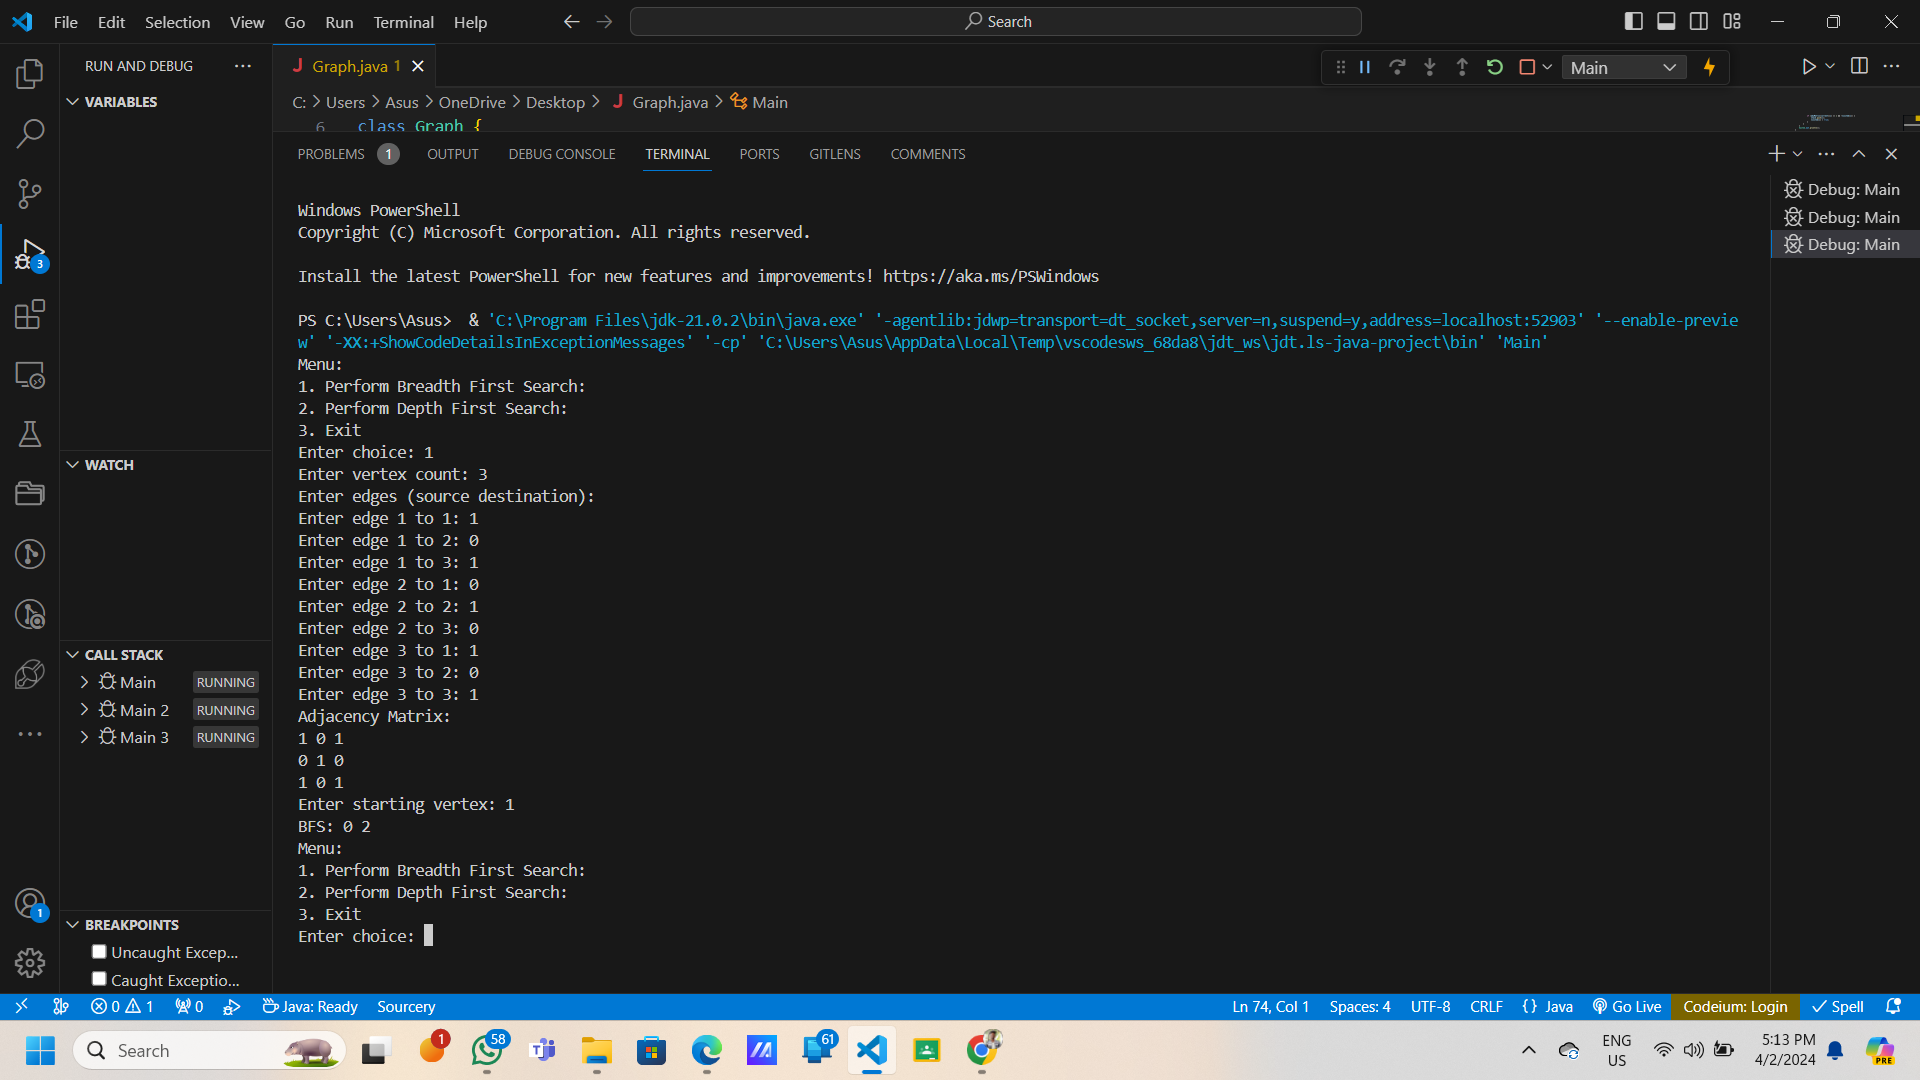
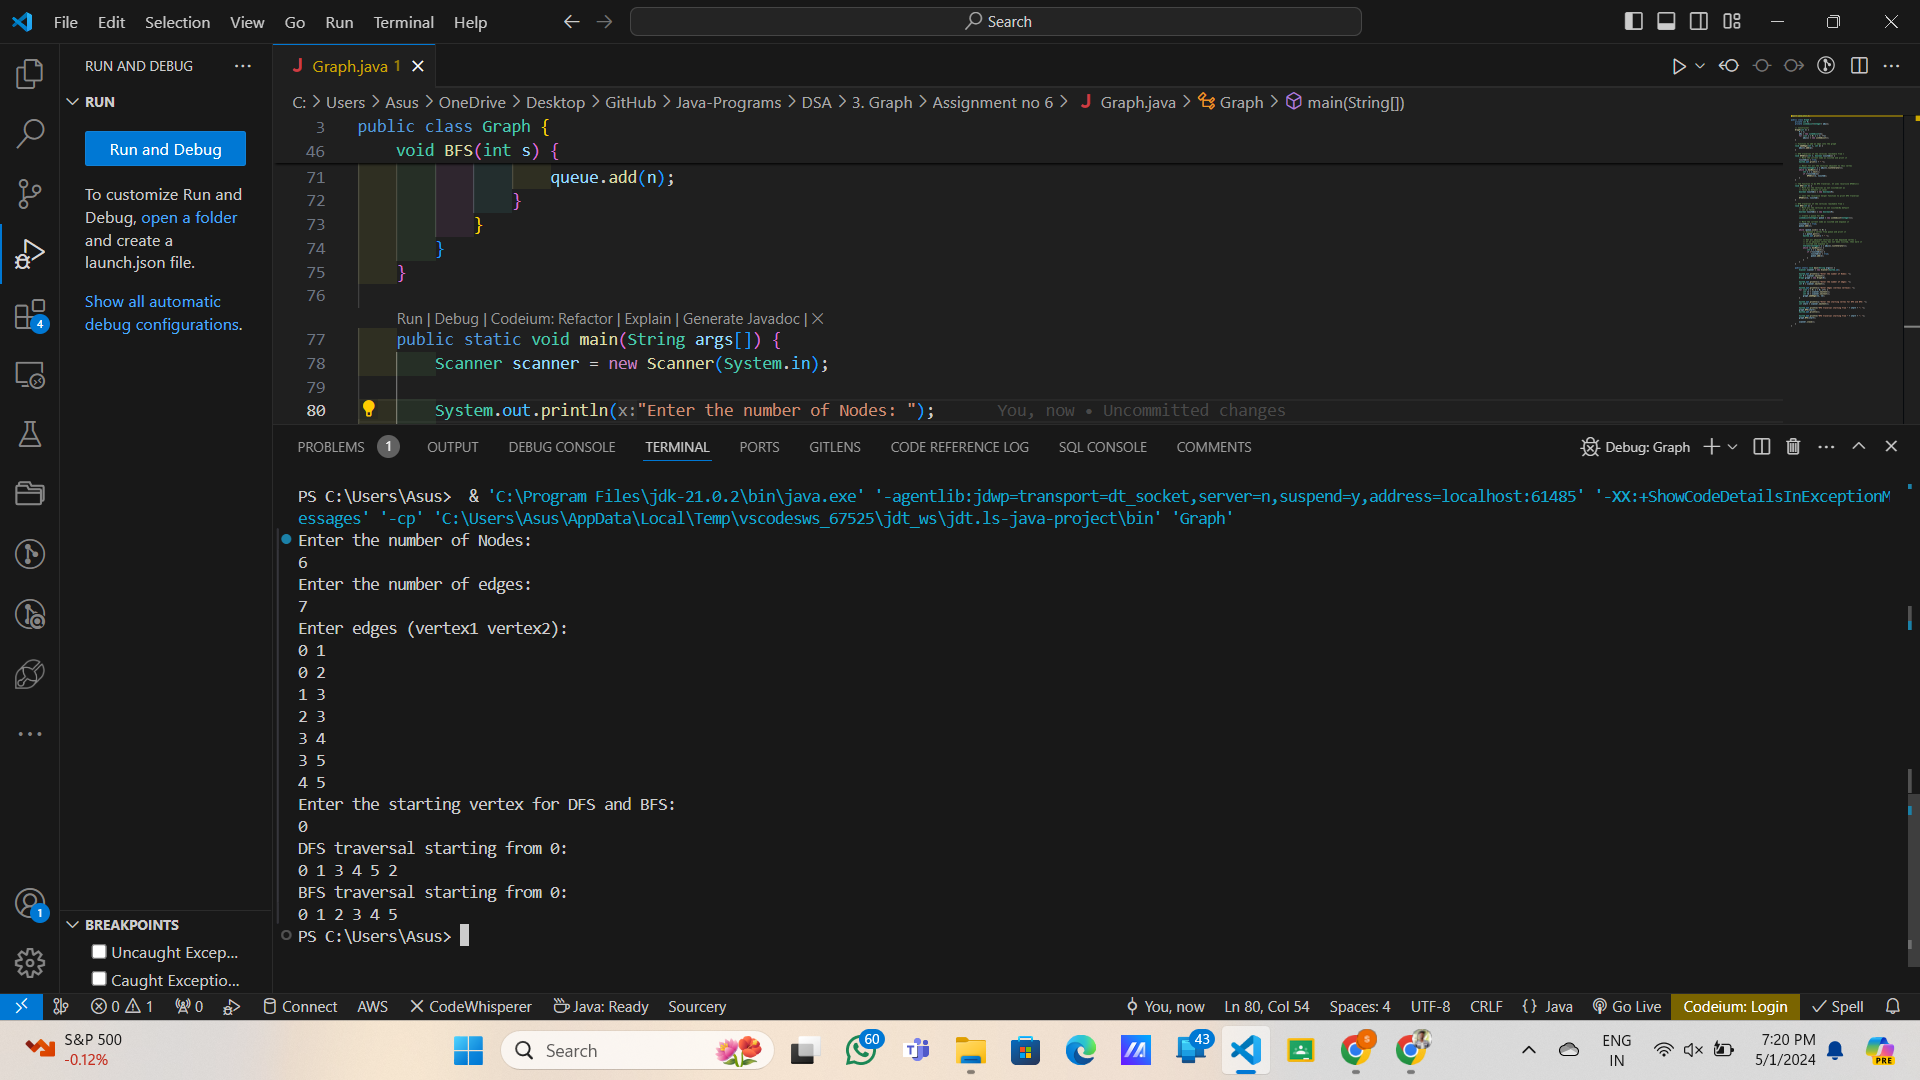
UPDATED

diff --git a/DSA/3. Graph/Assignment no 6/Graph.java b/DSA/3. Graph/Assignment no 6/Graph.java
@@ -1,122 +1,106 @@
-import java.util.Scanner;
-import java.util.LinkedList;
-import java.util.Queue;
-import java.util.Stack;
+import java.util.*;
 
-class Graph {
-    int[][] adjMatrix;
-    int vCount;
-    boolean[] visited;
+public class Graph {
+    private int V;
+    private LinkedList<Integer> adj[];
 
-    Graph(int vCount) {
-        this.vCount = vCount;
-        adjMatrix = new int[vCount][vCount];
-        visited = new boolean[vCount];
+    // Constructor
+    Graph(int v) {
+        V = v;
+        adj = new LinkedList[v];
+        for (int i = 0; i < v; ++i)
+            adj[i] = new LinkedList();
     }
 
-    void readEdges(Scanner scanner) {
-        System.out.println("Enter edges (source destination): ");
-        for (int i = 0; i < vCount; i++) {
-            for (int j = 0; j < vCount; j++) {
-                System.out.print("Enter edge " + (i + 1) + " to " + (j + 1) + ": ");
-                adjMatrix[i][j] = scanner.nextInt();
-            }
+    // Function to add an edge into the graph
+    void addEdge(int v, int w) {
+        adj[v].add(w);
+    }
+
+    // DFS traversal of the vertices reachable from v
+    void DFSUtil(int v, boolean visited[]) {
+        // Mark the current node as visited and print it
+        visited[v] = true;
+        System.out.print(v + " ");
+
+        // Recur for all the vertices adjacent to this vertex
+        Iterator<Integer> i = adj[v].listIterator();
+        while (i.hasNext()) {
+            int n = i.next();
+            if (!visited[n])
+                DFSUtil(n, visited);
         }
     }
 
-    void displayAdjacency() {
-        System.out.println("Adjacency Matrix:");
-        for (int i = 0; i < vCount; i++) {
-            for (int j = 0; j < vCount; j++) {
-                System.out.print(adjMatrix[i][j] + " ");
-            }
-            System.out.println();
-        }
+    // The function to do DFS traversal. It uses recursive DFSUtil()
+    void DFS(int v) {
+        // Mark all the vertices as not visited(set as
+        // false by default in java)
+        boolean visited[] = new boolean[V];
+
+        // Call the recursive helper function to print DFS traversal
+        DFSUtil(v, visited);
     }
 
-    void BFS(int start) {
-        Queue<Integer> queue = new LinkedList<>();
-        queue.offer(start);
-        visited[start] = true;
-        System.out.print("BFS: ");
-        while (!queue.isEmpty()) {
-            int current = queue.poll();
-            System.out.print(current + " ");
-            for (int i = 0; i < vCount; i++) {
-                if (adjMatrix[current][i] == 1 && !visited[i]) {
-                    queue.offer(i);
-                    visited[i] = true;
+    // BFS traversal of the vertices reachable from s
+    void BFS(int s) {
+        // Mark all the vertices as not visited(By default
+        // set as false)
+        boolean visited[] = new boolean[V];
+
+        // Create a queue for BFS
+        LinkedList<Integer> queue = new LinkedList<Integer>();
+
+        // Mark the current node as visited and enqueue it
+        visited[s] = true;
+        queue.add(s);
+
+        while (queue.size() != 0) {
+            // Dequeue a vertex from queue and print it
+            s = queue.poll();
+            System.out.print(s + " ");
+
+            // Get all adjacent vertices of the dequeued vertex s
+            // If an adjacent vertex has not been visited, then mark it
+            // visited and enqueue it
+            Iterator<Integer> i = adj[s].listIterator();
+            while (i.hasNext()) {
+                int n = i.next();
+                if (!visited[n]) {
+                    visited[n] = true;
+                    queue.add(n);
                 }
             }
         }
-        System.out.println();
     }
 
-    void DFS(int start) {
-        Stack<Integer> stack = new Stack<>();
-        stack.push(start);
-        visited[start] = true;
-        System.out.print("DFS: ");
-        while (!stack.isEmpty()) {
-            int current = stack.pop();
-            System.out.print(current + " ");
-            for (int i = 0; i < vCount; i++) {
-                if (adjMatrix[current][i] == 1 && !visited[i]) {
-                    stack.push(i);
-                    visited[i] = true;
-                }
-            }
-        }
-        System.out.println();
-    }
-}
-
-class Main {
-    public static void main(String[] args) {
+    public static void main(String args[]) {
         Scanner scanner = new Scanner(System.in);
-        boolean exit = false;
 
-        while (!exit) {
-            System.out.println("Menu:");
-            System.out.println("1. Perform Breadth First Search(BFS)");
-            System.out.println("2. Perform Depth First Search(DFS)");
-            System.out.println("3. Exit");
-            System.out.print("Enter choice: ");
-            int choice = scanner.nextInt();
+        System.out.println("Enter the number of landmarks: ");
+        int V = scanner.nextInt();
+        Graph graph = new Graph(V);
 
-            switch (choice) {
-                case 1:
-                    performSearch(scanner, choice);
-                    break;
-                case 2:
-                    performSearch(scanner, choice);
-                    break;
-                case 3:
-                    exit = true;
-                    break;
-                default:
-                    System.out.println("Invalid choice");
-            }
+        System.out.println("Enter the number of edges: ");
+        int E = scanner.nextInt();
+
+        System.out.println("Enter edges (vertex1 vertex2): ");
+        for (int i = 0; i < E; i++) {
+            int v1 = scanner.nextInt();
+            int v2 = scanner.nextInt();
+            graph.addEdge(v1, v2);
         }
-    }
 
-    public static void performSearch(Scanner scanner, int choice) {
-        System.out.print("Enter vertex count: ");
-        int vCount = scanner.nextInt();
-        Graph graph = new Graph(vCount);
-        graph.readEdges(scanner);
-        graph.displayAdjacency();
+        System.out.println("Enter the starting vertex for DFS and BFS: ");
+        int start = scanner.nextInt();
 
-        System.out.print("Enter starting vertex: ");
-        int startVertex = scanner.nextInt();
+        System.out.println("DFS traversal starting from " + start + ": ");
+        graph.DFS(start);
+        System.out.println();
 
-        switch (choice) {
-            case 1:
-                graph.BFS(startVertex - 1); // Adjust for 0-based indexing
-                break;
-            case 2:
-                graph.DFS(startVertex - 1); // Adjust for 0-based indexing
-                break;
-        }
+        System.out.println("BFS traversal starting from " + start + ": ");
+        graph.BFS(start);
+
+        scanner.close();
     }
 }

diff --git a/DSA/5. File/Assignment no 10/file.cpp b/DSA/5. File/Assignment no 10/file.cpp
@@ -1,6 +1,6 @@
-#include <iostream>
-#include <fstream>
-#include <string>
+#include<iostream>
+#include<fstream>
+#include<string>
 
 using namespace std;
 
